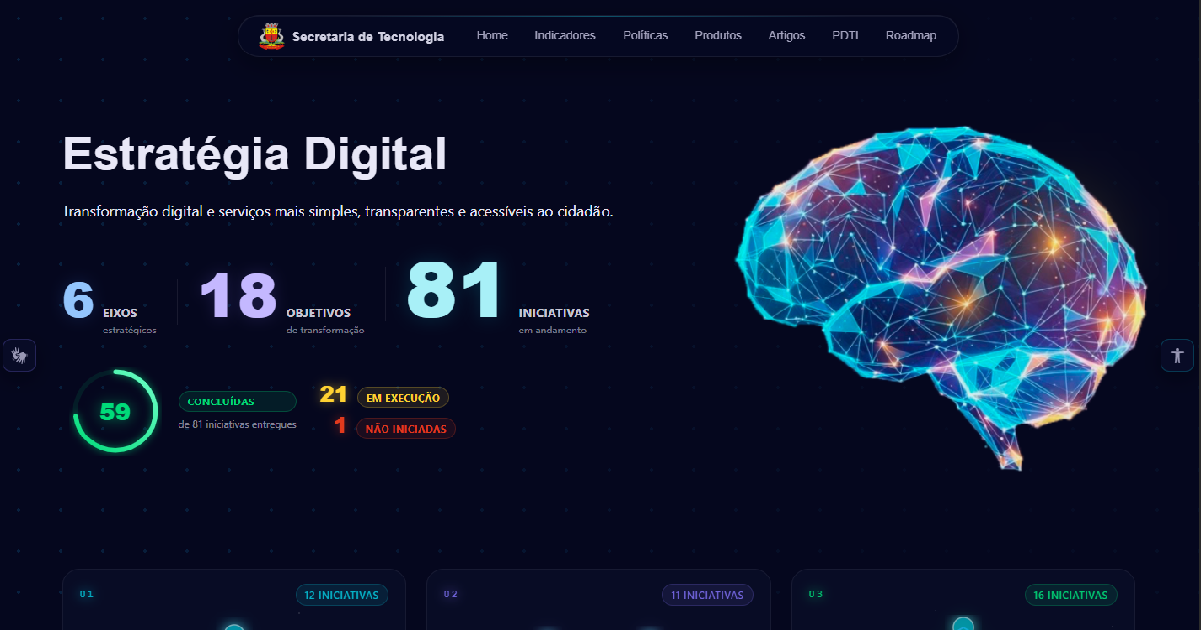
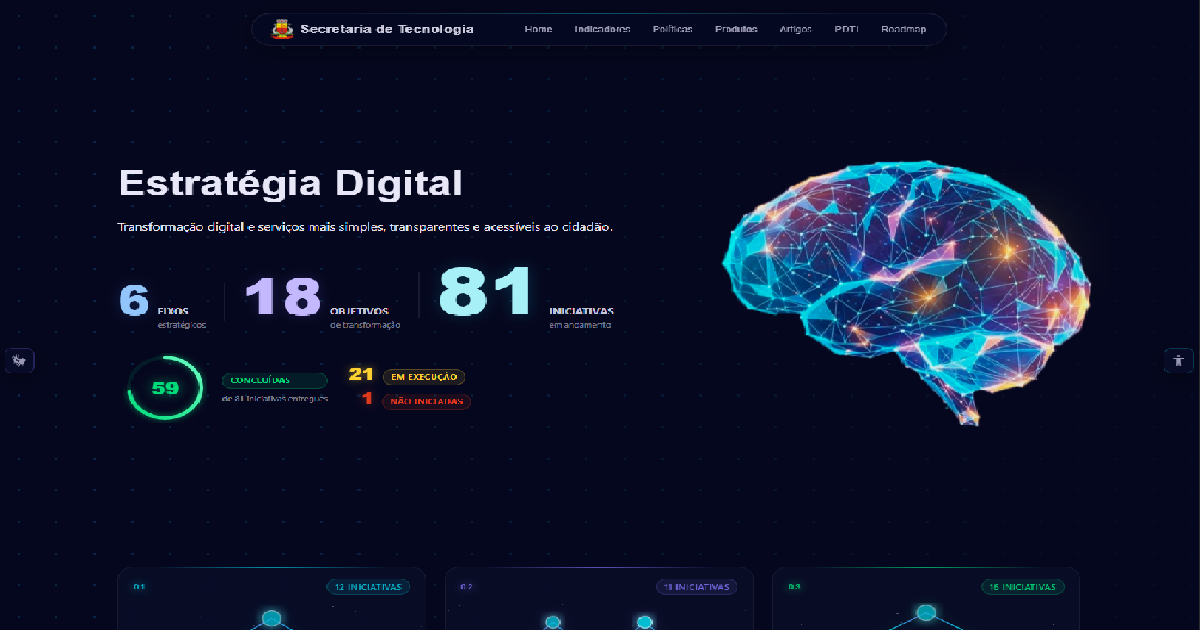
ultimo commit do dia

diff --git a/public/assets/js/main.js b/public/assets/js/main.js
@@ -237,7 +237,7 @@
     let eixoAtivoId = null;
 
     function fecharEixoInline(id) {
-      const inline = document.getElementById('eixo-inline[data-eixo-id="' + id + '"]');
+      const inline = document.querySelector('.eixo-inline[data-eixo-id="' + id + '"]');
       if (inline) inline.classList.add('is-hidden');
       const portal = document.querySelector('.eixo-portal[data-eixo-id="' + id + '"]');
       if (portal) portal.classList.remove('ativo');
@@ -247,7 +247,7 @@
     function abrirEixoInline(eixoId) {
       if (eixoAtivoId && eixoAtivoId !== eixoId) fecharEixoInline(eixoAtivoId);
 
-      const inline = document.getElementById('eixo-inline[data-eixo-id="' + eixoId + '"]');
+      const inline = document.querySelector('.eixo-inline[data-eixo-id="' + eixoId + '"]');
       if (!inline) return;
 
       if (eixoAtivoId === eixoId) { fecharEixoInline(eixoId); return; }

diff --git a/public/assets/css/main.css b/public/assets/css/main.css
@@ -408,7 +408,7 @@ span.badge {
 }
 
 .header .logo .sitename {
-  font-size: 1.2rem;
+  font-size: 1rem;
   margin: 0;
   font-weight: 600;
   color: rgba(232, 231, 247, 0.9);

diff --git a/public/assets/css/responsive.css b/public/assets/css/responsive.css
@@ -917,7 +917,7 @@
   }
 
   .header .header-container {
-    width: 57%;
+    width: 62%;
   }
 
 }

diff --git a/resources/views/componentes/openGraph.blade.php b/resources/views/componentes/openGraph.blade.php
@@ -3,9 +3,10 @@
     $imgPadrao = $baseUrl . '/assets/img/estrategia-digital.png';
 
     if ($tipo === 'artigo' && isset($artigo)) {
-        $titulo = $artigo->titulo . ' — Estratégia Digital';
+        $titulo = Str::limit($artigo->titulo . ' — Estratégia Digital', 60);
         $descricao = $artigo->subtitulo ?? 'Leia mais sobre inovação em Caraguatatuba.';
         $url = $baseUrl . '/artigos/' . $artigo->slug;
+        $autor = $artigo->user->nome;
         $imagem =  $imgPadrao;
         $ogType = 'article';
     } else {
@@ -25,8 +26,11 @@
     <meta property="og:title" content="{{ $titulo }}">
     <meta property="og:description" content="{{ $descricao }}">
     <meta property="og:image" content="{{ $imagem }}">
+    <meta property="og:image:width" content="1201">
+    <meta property="og:image:height" content="630">
     <meta property="og:site_name" content="Estratégia Digital Caraguatatuba">
     <meta property="og:locale" content="pt_BR">
+    <meta name="author" content="">
 
     <!-- Twitter / X -->
     <meta name="twitter:card" content="summary_large_image">

diff --git a/resources/views/home.blade.php b/resources/views/home.blade.php
@@ -87,7 +87,7 @@
           <div class="col-lg-5 colunaImg" data-aos="fade-left" data-aos-delay="200">
             <div class="hero-visual">
               <div class="hero-image">
-                <img src="public/assets/img/misc/misc.png" alt="Digital Agency Hero" class="img-fluid">
+                <img src="assets/img/misc/misc.png" alt="Digital Agency Hero" class="img-fluid">
                 <!-- <div id="reflexo-img-1"></div> -->
                 <!-- <div id="reflexo-img-2"></div> -->
                 <!-- <div id="reflexo-img-3"></div> -->

diff --git a/app/Http/Controllers/ProdutosController.php b/app/Http/Controllers/ProdutosController.php
@@ -53,10 +53,10 @@ class ProdutosController extends Controller
         }
     }
 
-    public function conteudoArtigo(string $slug, request $request)
+    public function conteudoArtigo(string $slug)
     {
         try {
-            $artigo = $this->produtosService->buscarArtigo($request->query('id'));
+            $artigo = $this->produtosService->buscarArtigoPorSlug($slug);
 
             return view('produtos.conteudo-artigo', compact('artigo'));
         } catch (\Throwable $e) {

diff --git a/app/Services/ProdutosService.php b/app/Services/ProdutosService.php
@@ -46,4 +46,14 @@ class ProdutosService
             abort(500);
         }
     }
+
+    public function buscarArtigoPorSlug(string $slug): Artigo
+    {
+        try {
+            return Artigo::with(['categorias', 'user'])->where('slug', $slug)->firstOrFail();
+        } catch (\Throwable $e) {
+            Log::error('ProdutosService@buscarArtigoPorSlug: ' . $e->getMessage());
+            abort(404);
+        }
+    }
 }

diff --git a/resources/views/artigos.blade.php b/resources/views/artigos.blade.php
@@ -64,7 +64,7 @@
 
           @forelse ($artigos as $artigo)
             <div class="col-lg-6 col-12">
-              <a href="{{ route('artigos.conteudo', ['slug' => $artigo->slug, 'id' => $artigo->id]) }}"
+              <a href="{{ route('artigos.conteudo', ['slug' => $artigo->slug]) }}"
                 class="artigo-card-link">
                 <div class="artigo-card">
                   <div class="artigo-card-body">

diff --git a/resources/views/layouts/app.blade.php b/resources/views/layouts/app.blade.php
@@ -5,6 +5,7 @@
   <meta charset="utf-8">
   <meta name="csrf-token" content="{{ csrf_token() }}">
   <meta name="viewport" content="width=device-width, initial-scale=1">
+  <meta name="google-site-verification" content="tDWI_BcnYvEE8KNqooTSoGvPaadkx17q8wOe_0nOtRw" />
   @yield('meta')
   @stack('og_meta')
 
